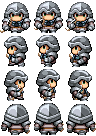
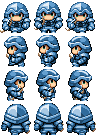
Fixed issue #97, changed textures for minions, and tested multiple slayers. All seems to work correctly.

diff --git a/kingslayer/src/game/view/SlayerGameInteractionLayer.java b/kingslayer/src/game/view/SlayerGameInteractionLayer.java
@@ -11,6 +11,7 @@ import game.model.game.model.worldObject.entity.entities.Minions;
 import game.model.game.model.worldObject.entity.slayer.SlayerData;
 import javafx.geometry.Point2D;
 import javafx.scene.ImageCursor;
+import javafx.scene.input.MouseButton;
 import javafx.scene.layout.Region;
 import javafx.scene.paint.Color;
 import javafx.scene.text.Font;
@@ -60,42 +61,58 @@ public class SlayerGameInteractionLayer extends GameInteractionLayer {
     world = worldPanel;
 
     world.onGameLeftClick((x, y) -> {
-      if (model.getLoseControl()) {
-        return;
-      }
-      double angle = Math.atan2(y - model.getLocalPlayer().getY(), x - model.getLocalPlayer().getX());
-
-      SlayerData curSlayerData = model.getLocalPlayer().get(Entity.EntityProperty.SLAYER_DATA);
-      if (curSlayerData.meleeLastTime <= 0 && curSlayerData.magic >= SlayerData.meleeCost) {
-        MusicPlayer.playChargeSound();
-      }
-
-      model.processMessage(new SlayerMeleeRequest(model.getLocalPlayer().id,
-          model.getLocalPlayer().getX(),
-          model.getLocalPlayer().getY(),
-          angle, model.getTeam()));
+      charge(x, y);
     });
 
     world.onGameRightClick((x, y) -> {
-      if (model.getLoseControl()) {
-        return;
-      }
-      double angle = Math.atan2(y - model.getLocalPlayer().getY(), x - model.getLocalPlayer().getX());
+      System.out.println(x + " " + y);
+      shootArrow(x, y);
+    });
 
-      SlayerData curSlayerData = model.getLocalPlayer().get(Entity.EntityProperty.SLAYER_DATA);
-      if (curSlayerData.magic >= SlayerData.arrowCost) {
-        MusicPlayer.playArrowSound();
-      }
-
-      model.processMessage(new ShootArrowRequest(model.getLocalPlayer().id,
-          model.getLocalPlayer().getX(),
-          model.getLocalPlayer().getY(),
-          angle, model.getTeam()));
-
+    danger.setOnMouseClicked(e -> {
+      double x = world.screenToGameX(danger.getLayoutX() + e.getX());
+      double y = world.screenToGameY(danger.getLayoutY() + e.getY());
+      System.out.println("AAAHHHHHHH!!!!!!" + x + " " + y);
+      if (e.getButton() == MouseButton.PRIMARY)
+        charge(x, y);
+      if (e.getButton() == MouseButton.SECONDARY)
+        shootArrow(x, y);
     });
   }
 
-  private boolean flag = false;
+  private void charge(Double x, Double y) {
+    if (model.getLoseControl()) {
+      return;
+    }
+    double angle = Math.atan2(y - model.getLocalPlayer().getY(), x - model.getLocalPlayer().getX());
+
+    SlayerData curSlayerData = model.getLocalPlayer().get(Entity.EntityProperty.SLAYER_DATA);
+    if (curSlayerData.meleeLastTime <= 0 && curSlayerData.magic >= SlayerData.meleeCost) {
+      MusicPlayer.playChargeSound();
+    }
+
+    model.processMessage(new SlayerMeleeRequest(model.getLocalPlayer().id,
+        model.getLocalPlayer().getX(),
+        model.getLocalPlayer().getY(),
+        angle, model.getTeam()));
+  }
+
+  private void shootArrow(Double x, Double y) {
+    if (model.getLoseControl()) {
+      return;
+    }
+    double angle = Math.atan2(y - model.getLocalPlayer().getY(), x - model.getLocalPlayer().getX());
+
+    SlayerData curSlayerData = model.getLocalPlayer().get(Entity.EntityProperty.SLAYER_DATA);
+    if (curSlayerData.magic >= SlayerData.arrowCost) {
+      MusicPlayer.playArrowSound();
+    }
+
+    model.processMessage(new ShootArrowRequest(model.getLocalPlayer().id,
+        model.getLocalPlayer().getX(),
+        model.getLocalPlayer().getY(),
+        angle, model.getTeam()));
+  }
 
   public void draw() {
     world.draw();
@@ -138,11 +155,9 @@ public class SlayerGameInteractionLayer extends GameInteractionLayer {
       if (inDanger) {
         danger.setVisible(true);
         world.requestFocus();
-        flag = true;
         MusicPlayer.playDangerSound();
       } else {
         danger.setVisible(false);
-        flag = false;
         MusicPlayer.stopDangerSound();
       }
     }
